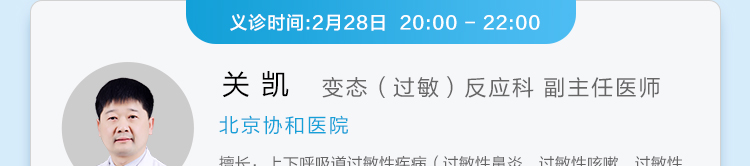
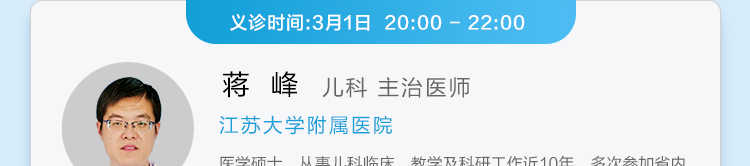
fixed

diff --git a/page.html b/page.html
@@ -12,8 +12,8 @@
 	<meta http-equiv="Cache-Control" content="no-cache, no-store, must-revalidate" />
 	<meta http-equiv="Pragma" content="no-cache" />
 	<meta http-equiv="Expires" content="0" />
-	<script src="./axios.min.js?rand=0228"></script>
-	<script src="./jquery-3.4.1.min.js?rand=0228"></script>
+	<script src="./axios.min.js?rand=0301"></script>
+	<script src="./jquery-3.4.1.min.js?rand=0301"></script>
 
 	<style type="text/css">
 		*{
@@ -82,35 +82,35 @@
 
 		</div>
 		<div class="header">
-			<div><img src="./1.jpg?rand=0228"/></div>
-			<div><img src="./2.jpg?rand=0228"/></div>
+			<div><img src="./1.jpg?rand=0301"/></div>
+			<div><img src="./2.jpg?rand=0301"/></div>
 		</div>
 
 
-		<a href="https://www.jk.cn/srilanka/#/doctor-detail/151203770809" class="one-doctor">
-			<div class="one-doctor-1"><img src="./1-1.jpg?rand=0228"/></div>
-			<div class="one-doctor-2"><img src="./1-2.jpg?rand=0228"/></div>
-			<div class="one-doctor-2"><img src="./1-3.jpg?rand=0228"/></div>
+		<a href="https://www.jk.cn/srilanka/#/doctor-detail/151160090707" class="one-doctor">
+			<div class="one-doctor-1"><img src="./1-1.jpg?rand=0301"/></div>
+			<div class="one-doctor-2"><img src="./1-2.jpg?rand=0301"/></div>
+			<div class="one-doctor-2"><img src="./1-3.jpg?rand=0301"/></div>
 		</a>
 
-		<a href="https://www.jk.cn/srilanka/#/doctor-detail/151236740208" class="one-doctor">
-			<div class="one-doctor-1"><img src="./2-1.jpg?rand=0228"/></div>
-			<div class="one-doctor-2"><img src="./2-2.jpg?rand=0228"/></div>
-			<div class="one-doctor-2"><img src="./2-3.jpg?rand=0228"/></div>
+		<a href="https://www.jk.cn/srilanka/#/doctor-detail/151256800108" class="one-doctor">
+			<div class="one-doctor-1"><img src="./2-1.jpg?rand=0301"/></div>
+			<div class="one-doctor-2"><img src="./2-2.jpg?rand=0301"/></div>
+			<div class="one-doctor-2"><img src="./2-3.jpg?rand=0301"/></div>
 
 		</a>
 
-		<a href="https://www.jk.cn/srilanka/#/doctor-detail/151304970505" class="one-doctor">
-			<div class="one-doctor-1"><img src="./3-1.jpg?rand=0228"/></div>
-			<div class="one-doctor-2"><img src="./3-2.jpg?rand=0228"/></div>
-			<div class="one-doctor-2"><img src="./3-3.jpg?rand=0228"/></div>
+		<a href="https://www.jk.cn/srilanka/#/doctor-detail/151252310509" class="one-doctor">
+			<div class="one-doctor-1"><img src="./3-1.jpg?rand=0301"/></div>
+			<div class="one-doctor-2"><img src="./3-2.jpg?rand=0301"/></div>
+			<div class="one-doctor-2"><img src="./3-3.jpg?rand=0301"/></div>
 
 		</a>
 		
-		<a href="https://www.jk.cn/srilanka/#/doctor-detail/151311030207" class="one-doctor">
-			<div class="one-doctor-1"><img src="./4-1.jpg?rand=0228"/></div>
-			<div class="one-doctor-2"><img src="./4-2.jpg?rand=0228"/></div>
-			<div class="one-doctor-2"><img src="./4-3.jpg?rand=0228"/></div>
+		<a href="https://www.jk.cn/srilanka/#/doctor-detail/151609640706" class="one-doctor">
+			<div class="one-doctor-1"><img src="./4-1.jpg?rand=0301"/></div>
+			<div class="one-doctor-2"><img src="./4-2.jpg?rand=0301"/></div>
+			<div class="one-doctor-2"><img src="./4-3.jpg?rand=0301"/></div>
 
 		</a>
 	
@@ -119,7 +119,7 @@
 
 
 	</div>
-	<script src="http://res.wx.qq.com/open/js/jweixin-1.6.0.js?rand=0228"></script>
+	<script src="http://res.wx.qq.com/open/js/jweixin-1.6.0.js?rand=0301"></script>
 
 	<script>
 		$(document).ready(function(){
